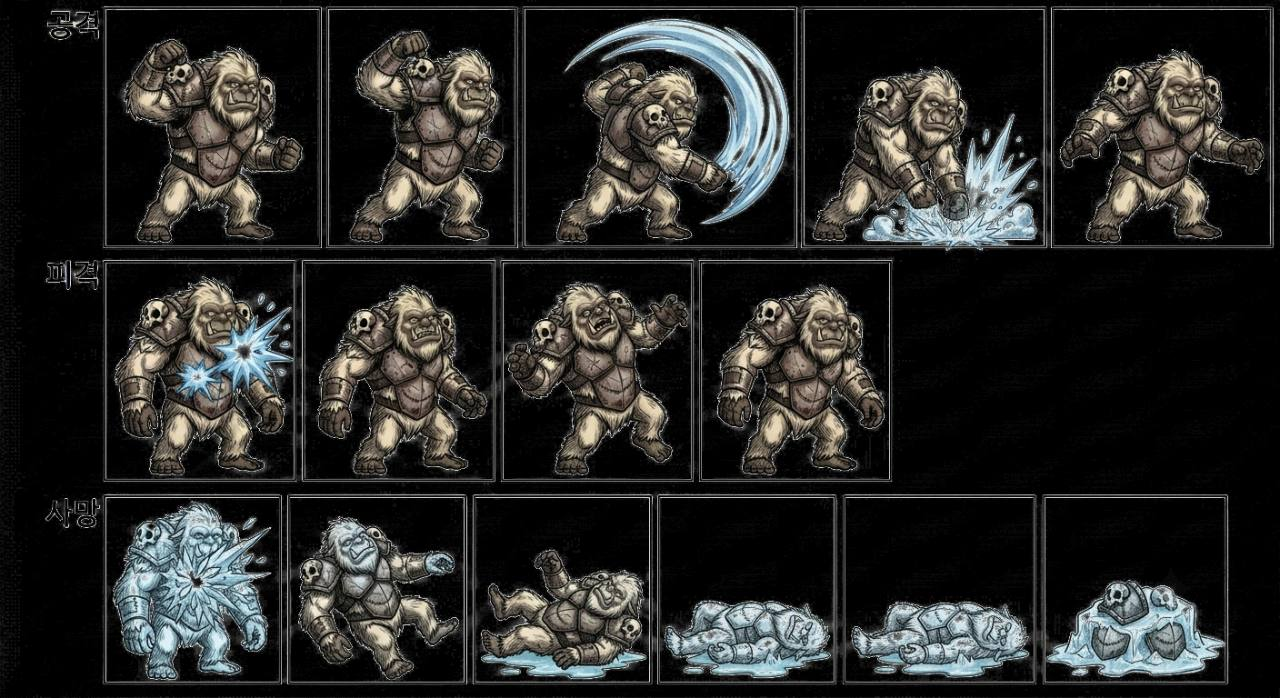
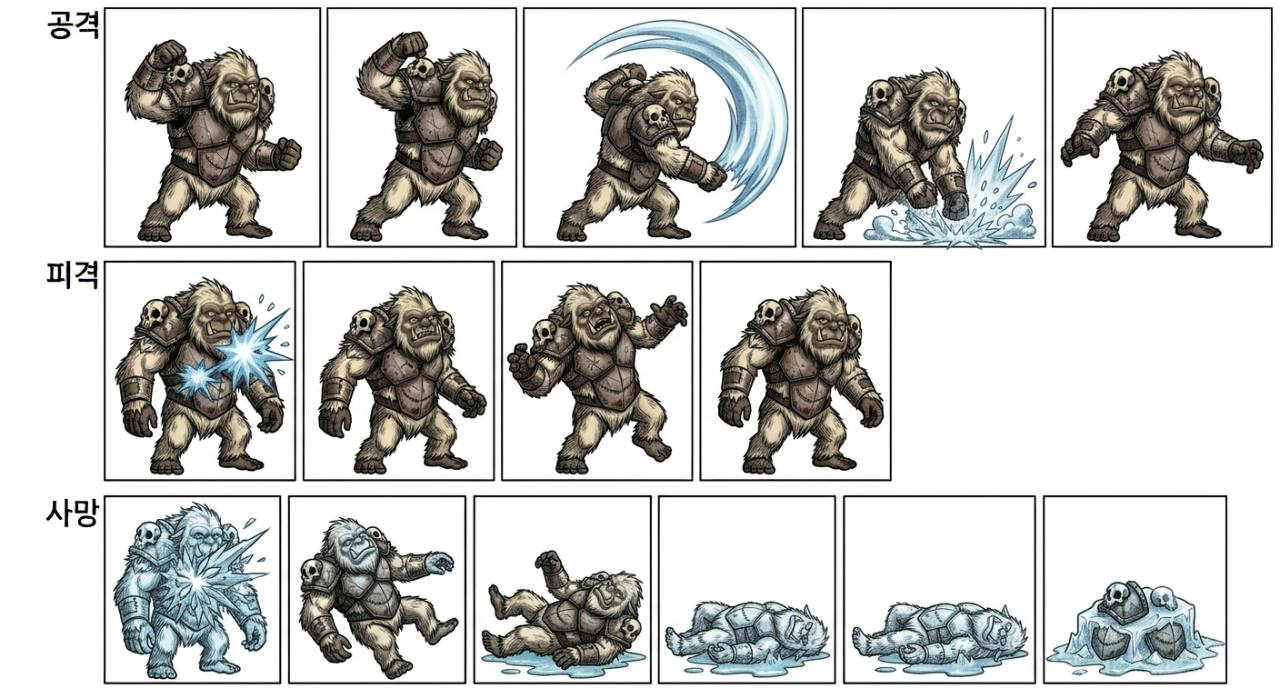
Process five original white animation sheets

diff --git a/v2-motion.js b/v2-motion.js
@@ -4,11 +4,12 @@
   const SHEET_ROOT = "art/v2-style/animation-sheets/uploaded-raw/";
   const DEFAULT_COUNTS = Object.freeze({ attack: 5, hit: 4, death: 6 });
 
-  function definition(file, counts = {}) {
+  function definition(file, counts = {}, backdrop = "dark") {
     const frameCount = { ...DEFAULT_COUNTS, ...counts };
     return {
       sheet: SHEET_ROOT + file + "-animation-sheet.jpg",
       counts: frameCount,
+      backdrop,
       frameMs: { attack: 105, hit: 88, death: 118 },
       impactFrame: Math.max(1, Math.min(frameCount.attack - 2, 3))
     };
@@ -17,13 +18,13 @@
   const DEFINITIONS = Object.freeze({
     spear: definition("skeleton-spear"), archer: definition("skeleton-archer"),
     knight: definition("skeleton-cavalry"), worm: definition("grave-worm"),
-    golem: definition("obese-zombie", { hit: 5 }), ghoul: definition("ghoul"),
+    golem: definition("obese-zombie", { hit: 5 }), ghoul: definition("ghoul", {}, "white"),
     ogre: definition("boulder-ogre"), plague: definition("plague-doctor"),
     plagueFrog: definition("poison-toad"), hydra: definition("hydra"),
-    minotaur: definition("minotaur"), yeti: definition("yeti"),
-    iceLord: definition("ice-lord"), seaWolf: definition("sea-wolf"),
+    minotaur: definition("minotaur", {}, "white"), yeti: definition("yeti", {}, "white"),
+    iceLord: definition("ice-lord", {}, "white"), seaWolf: definition("sea-wolf"),
     spiderQueen: definition("spider-queen"), spiderling: definition("giant-spider", { hit: 5 }),
-    goblinChief: definition("goblin-shaman"), goblinCommoner: definition("goblin-commoner"),
+    goblinChief: definition("goblin-shaman"), goblinCommoner: definition("goblin-commoner", {}, "white"),
     goblinSoldier: definition("goblin-soldier"), skeletonSummoner: definition("hooded-necromancer"),
     doomExecutor: definition("gargoyle"), abyssEye: definition("cyclops-monster"),
     demonDeathKnight: definition("death-knight"), hellMantis: definition("mantis-monster"),
@@ -131,10 +132,41 @@
     return result;
   }
 
-  function cropFrame(sheet, rect) {
+  function removeConnectedWhiteBackdrop(pixels, width, height) {
+    const data = pixels.data;
+    const visited = new Uint8Array(width * height);
+    const queue = new Int32Array(width * height);
+    let head = 0; let tail = 0;
+    const enqueue = (x, y) => {
+      const pixel = y * width + x;
+      if (visited[pixel]) return;
+      const index = pixel * 4;
+      const red = data[index]; const green = data[index + 1]; const blue = data[index + 2];
+      if (Math.min(red, green, blue) < 232 || Math.max(red, green, blue) - Math.min(red, green, blue) > 20) return;
+      visited[pixel] = 1; queue[tail++] = pixel;
+    };
+    for (let x = 0; x < width; x += 1) { enqueue(x, 0); enqueue(x, height - 1); }
+    for (let y = 1; y < height - 1; y += 1) { enqueue(0, y); enqueue(width - 1, y); }
+    while (head < tail) {
+      const pixel = queue[head++]; const x = pixel % width; const y = Math.floor(pixel / width);
+      if (x > 0) enqueue(x - 1, y); if (x + 1 < width) enqueue(x + 1, y);
+      if (y > 0) enqueue(x, y - 1); if (y + 1 < height) enqueue(x, y + 1);
+    }
+    for (let pixel = 0; pixel < visited.length; pixel += 1) {
+      if (visited[pixel]) data[pixel * 4 + 3] = 0;
+    }
+  }
+
+  function cropFrame(sheet, rect, backdrop) {
     const [sx, sy, sw, sh] = rect;
     const output = root.document.createElement("canvas"); output.width = sw; output.height = sh;
-    output.getContext("2d").drawImage(sheet, sx, sy, sw, sh, 0, 0, sw, sh);
+    const context = output.getContext("2d", { willReadFrequently: backdrop === "white" });
+    context.drawImage(sheet, sx, sy, sw, sh, 0, 0, sw, sh);
+    if (backdrop === "white") {
+      const pixels = context.getImageData(0, 0, sw, sh);
+      removeConnectedWhiteBackdrop(pixels, sw, sh);
+      context.putImageData(pixels, 0, 0);
+    }
     return output.toDataURL("image/png");
   }
 
@@ -145,9 +177,9 @@
     const promise = loadImage(definitionValue.sheet).then((sheet) => {
       const rectangles = frameRectangles(sheet, definitionValue);
       const frames = {
-        attack: rectangles.attack.map((rect) => cropFrame(sheet, rect)),
-        hit: rectangles.hit.map((rect) => cropFrame(sheet, rect)),
-        death: rectangles.death.map((rect) => cropFrame(sheet, rect))
+        attack: rectangles.attack.map((rect) => cropFrame(sheet, rect, definitionValue.backdrop)),
+        hit: rectangles.hit.map((rect) => cropFrame(sheet, rect, definitionValue.backdrop)),
+        death: rectangles.death.map((rect) => cropFrame(sheet, rect, definitionValue.backdrop))
       };
       frames.idle = frames.attack[frames.attack.length - 1]; return frames;
     }).catch((error) => { prepared.delete(type); throw error; });
@@ -189,6 +221,7 @@
     supports, prepare, preload, applyIdle, play,
     registeredTypes: () => Object.keys(DEFINITIONS),
     sheetPath: (type) => DEFINITIONS[type]?.sheet || "",
+    backdrop: (type) => DEFINITIONS[type]?.backdrop || "dark",
     impactFrame: (type) => DEFINITIONS[type]?.impactFrame ?? 0,
     frameCount: (type, motion) => DEFINITIONS[type]?.counts?.[motion] ?? 0
   });

diff --git a/test_v2_motion.js b/test_v2_motion.js
@@ -46,20 +46,24 @@ assert(motion.impactFrame("goblinSoldier") === 3, "Goblin impact frame must be s
 assert(motion.impactFrame("minotaur") === 3, "Minotaur impact frame must be synchronized.");
 
 assert(
-  battleHtml.indexOf("v2-motion.js?v=3") < battleHtml.indexOf("v2-battle.js?v=11"),
+  battleHtml.indexOf("v2-motion.js?v=4") < battleHtml.indexOf("v2-battle.js?v=11"),
   "V2 motion runtime must load before the battle controller."
 );
 assert(battleSource.includes('playUnitMotion(attacker, "attack"'), "Battle attack hook is missing.");
 assert(battleSource.includes('playUnitMotion(target, "hit"'), "Battle hit hook is missing.");
 assert(battleSource.includes('playUnitMotion(unit, "death"'), "Battle death hook is missing.");
 assert(battleSource.includes("if (!animated)"), "Static animation fallback is missing.");
-assert(!motionSource.includes("removeConnectedBackdrop"), "Animation frames must not remove the sheet background.");
+assert(!motionSource.includes("removeConnectedBackdrop"), "Dark animation frames must not remove the sheet background.");
 assert(!motionSource.includes("isBackdrop"), "Animation frames must preserve original dark pixels.");
+assert(motionSource.includes("removeConnectedWhiteBackdrop"), "White source sheets must be converted to transparent frames.");
+for (const type of ["ghoul", "minotaur", "yeti", "iceLord", "goblinCommoner"]) {
+  assert(motion.backdrop(type) === "white", `${type} must use its white-background original sheet.`);
+}
 assert(
   motionSource.includes("left + 2, y0 + 2") && motionSource.includes("left - 4") && motionSource.includes("y0 - 4"),
   "Animation frames must crop only two pixels inside each sheet cell."
 );
 assert(indexHtml.includes('href="v2-animation-practice.html"'), "Start screen motion lab link is missing.");
-assert(serviceWorker.includes("necromancer-expedition-v60"), "Service worker cache version was not bumped.");
+assert(serviceWorker.includes("necromancer-expedition-v61"), "Service worker cache version was not bumped.");
 
 console.log("SUCCESS: shared V2 attack, hit, and death motion integration checks passed.");

diff --git a/service-worker.js b/service-worker.js
@@ -1,4 +1,4 @@
-const CACHE_NAME = "necromancer-expedition-v60";
+const CACHE_NAME = "necromancer-expedition-v61";
 const APP_SHELL = [
   "./",
   "./index.html",
@@ -7,7 +7,7 @@ const APP_SHELL = [
   "./v2-animation-practice.css",
   "./v2-animation-practice.js",
   "./v2-battle.css?v=7",
-  "./v2-motion.js?v=3",
+  "./v2-motion.js?v=4",
   "./v2-battle.js?v=11",
   "./styles.css?v=43",
   "./ultimate-vfx.css?v=43",

diff --git a/v2.html b/v2.html
@@ -127,7 +127,7 @@
   </div>
 
   <script src="unit-data.js?v=45"></script>
-  <script src="v2-motion.js?v=3"></script>
+  <script src="v2-motion.js?v=4"></script>
   <script src="v2-battle.js?v=11"></script>
 </body>
 </html>
